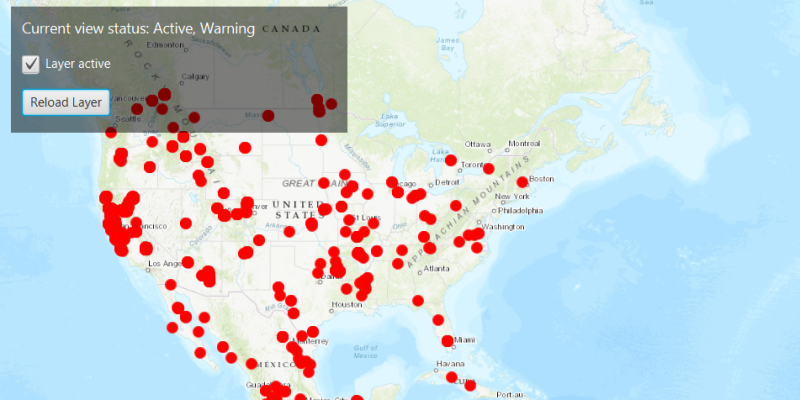
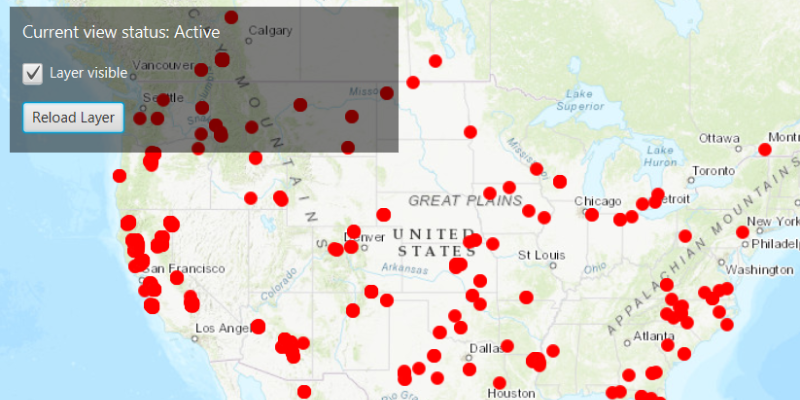
tidy ups from code review

diff --git a/map_view/display-layer-view-state/src/main/java/com/esri/samples/display_layer_view_state/DisplayLayerViewStateSample.java b/map_view/display-layer-view-state/src/main/java/com/esri/samples/display_layer_view_state/DisplayLayerViewStateSample.java
@@ -85,16 +85,16 @@ public class DisplayLayerViewStateSample extends Application {
 
       // create a checkbox UI that toggles the visibility of the feature layer
       CheckBox visibilityCheckBox = new CheckBox();
-      visibilityCheckBox.setText("Layer active");
+      visibilityCheckBox.setText("Layer visible");
       visibilityCheckBox.setSelected(true);
       visibilityCheckBox.setDisable(true);
       visibilityCheckBox.setOnAction(event -> featureLayer.setVisible(visibilityCheckBox.isSelected()));
 
       // create a button and a listener to load a feature layer
       Button loadLayerButton = new Button("Load Layer");
-
       loadLayerButton.setOnAction(event -> {
 
+        // disable the checkbox when loading/reloading the feature layer, and, if it exists, remove it by clearing the map's operational layers
         if (!visibilityCheckBox.isDisabled()) {
           visibilityCheckBox.setDisable(true);
         }
@@ -108,14 +108,14 @@ public class DisplayLayerViewStateSample extends Application {
           "b8f4033069f141729ffb298b7418b653");
         featureLayer = new FeatureLayer(portalItem, 0);
         //  set a minimum and a maximum scale for the visibility of the feature layer
-        featureLayer.setMinScale(400000000);
+        featureLayer.setMinScale(40000000);
         featureLayer.setMaxScale(4000000);
         // add the feature layer to the map
         map.getOperationalLayers().add(featureLayer);
 
-        // add a done loading listener to the feature layer
+        // enable UI interactions once the feature layer has loaded
         featureLayer.addDoneLoadingListener(() -> {
-          if (featureLayer.getLoadStatus() == LoadStatus.LOADED){
+          if (featureLayer.getLoadStatus() == LoadStatus.LOADED) {
             visibilityCheckBox.setDisable(false);
             featureLayer.setVisible(visibilityCheckBox.isSelected());
             loadLayerButton.setText("Reload Layer");

diff --git a/map_view/display-layer-view-state/README.md b/map_view/display-layer-view-state/README.md
@@ -10,7 +10,7 @@ The view status includes information on the loading state of layers and whether 
 
 ## How to use the sample
 
-Click "Load Layer" to add a new layer to the map. The current view status of the layer will display at the top of the sample. Zoom in and out of the map and note that the layer disappears when the map is scaled outside of its min and max scale range. If you disconnect your device from the network and pan around the map, a warning alert will display. Reconnect to the network to remove the warning. Turn the layer's visibility off by unchecking the "layer active" checkbox. The layer's current view status will update accordingly as you carry out these actions.
+Click "Load Layer" to add a feature layer to the map. The current view status of the layer will display at the top of the sample. Zoom in and out of the map and note the layer disappears when the map is scaled outside of its min and max scale range. Control the layer's visibility with the "Layer visible" checkbox. If you disconnect your device from the network and pan around the map, a warning alert will display. Reconnect to the network to remove the warning. The layer's current view status will update accordingly as you carry out these actions.
 
 ## How it works
 
